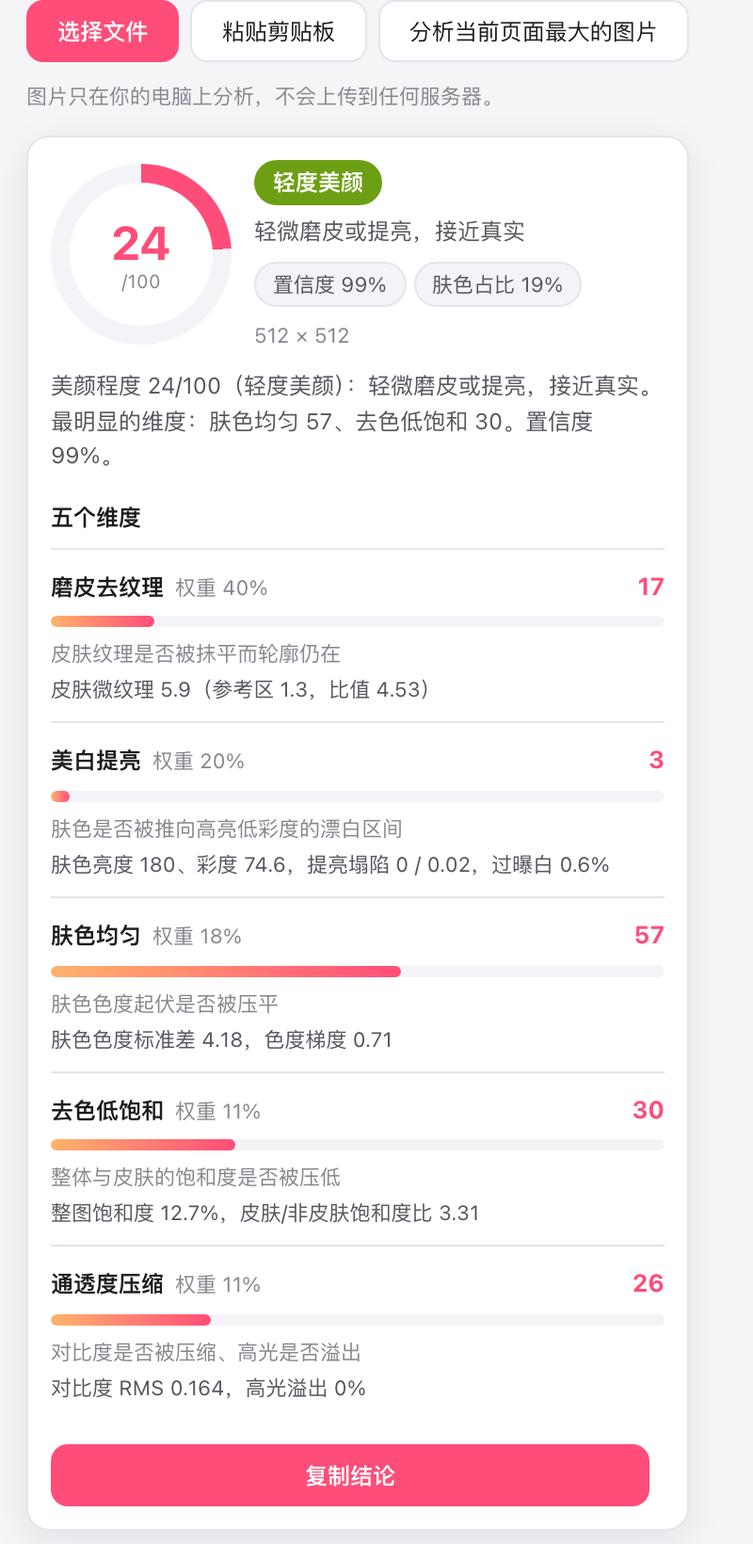
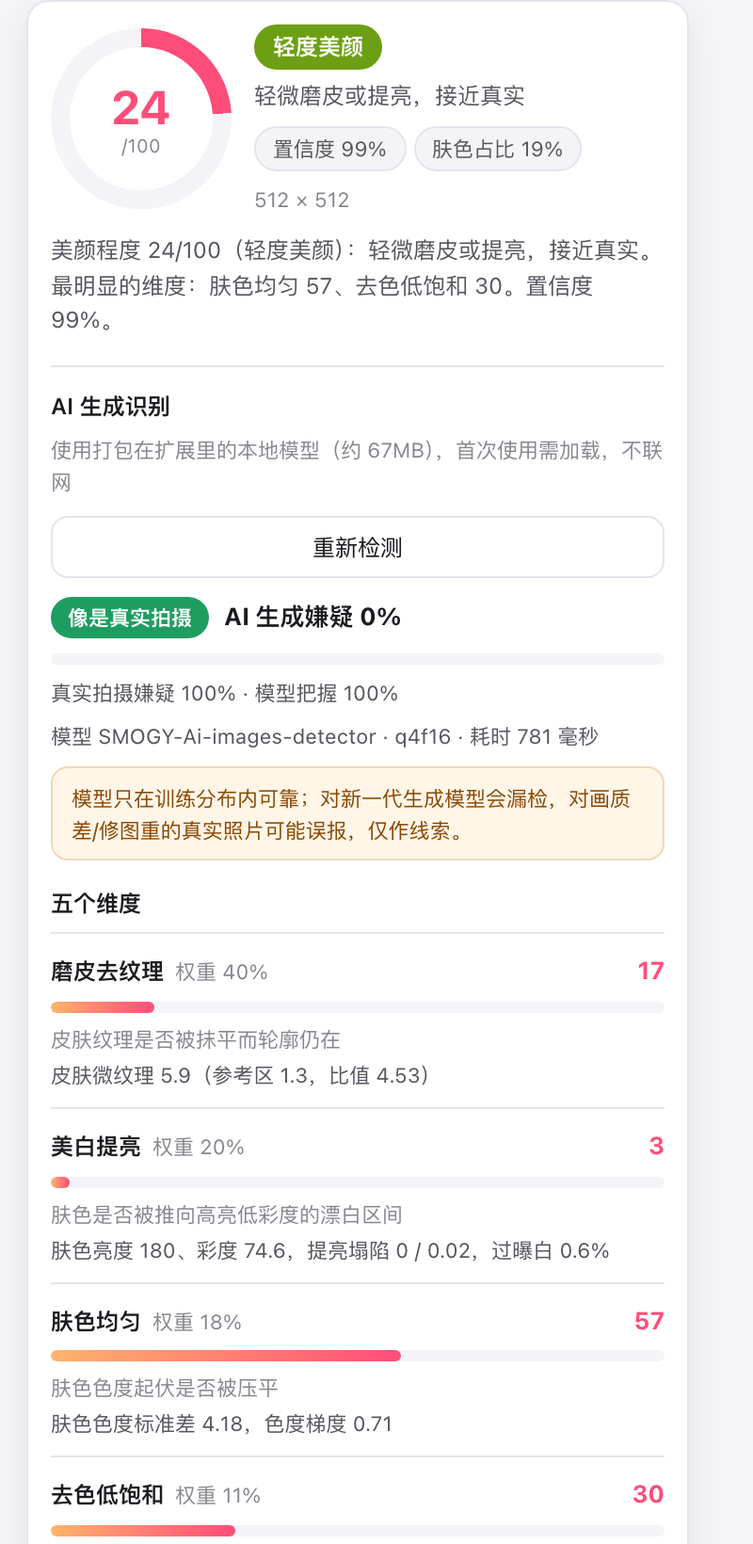
feat(site): 素颜镜 v1.2.0 —— 角标左上角 AI 标识（悬停直接检测）+ 修两个真 bug
- 页面：AI 章节补「悬停即出结果」的说明与 `preview-badge.png` 真机截图；
  版本/下载地址/字节数更新到 v1.2.0（50,031,764 字节，GitHub Releases）
- 中英 meta description 与 JSON-LD 登记同步（gen 后 check 全绿）
- 修 bug 1：AI 区块原本在报告卡片（max-height 620px 内部滚动）与弹窗最底部，用户看不到；
  已上移，并加两条端到端回归检查（卡片不滚动可见、弹窗 600px 首屏内）
- 修 bug 2：后台 normalizeSettings 未登记 aiDetection/aiBadgeAuto ⇒ 设置页两个 AI 开关
  从来不生效；已补登记 + 新增单元测试盯住「设置键必须登记齐全」
- 验证：38/38 单测、30/30 真机端到端（含悬停自动出结果、缓存复用、关闭自动后点击路径）；
  打包产物解压后再跑一遍 29/29

diff --git a/site/beauty-meter/index.html b/site/beauty-meter/index.html
@@ -6,7 +6,7 @@
     <title>素颜镜 · 美颜程度检测 —— 悬停网页图片就知道被美颜了几成（Chrome 扩展）</title>
     <meta
       name="description"
-      content="素颜镜是一个 Chrome MV3 扩展：用纯本地像素分析给出 0~100 的「美颜程度」评分，拆成磨皮去纹理、美白提亮、肤色均匀、去色低饱和、通透度压缩五个维度；悬停网页图片 0.3 秒看角标，点击展开完整报告，也可以拖拽、粘贴或选择本地图片分析。v1.1 起还可按需用打包在扩展里的本地模型判断「是否像 AI 生成」（完整版 50MB，另有 74KB 轻量版只做美颜）。推理全在本机，不联网、不上传图片。它与 XrayTun 是同一个作者的两个独立项目。"
+      content="素颜镜是一个 Chrome MV3 扩展：用纯本地像素分析给出 0~100 的「美颜程度」评分，拆成磨皮去纹理、美白提亮、肤色均匀、去色低饱和、通透度压缩五个维度；悬停网页图片 0.3 秒看角标，点击展开完整报告，也可以拖拽、粘贴或选择本地图片分析。悬停图片时角标左上角还会直接给出「是否像 AI 生成」（本地模型，红=疑似 AI、绿=像真实拍摄），也可以在卡片/弹窗里按需检测（完整版 50MB，另有 74KB 轻量版只做美颜）。推理全在本机，不联网、不上传图片。它与 XrayTun 是同一个作者的两个独立项目。"
     />
     <link rel="canonical" href="https://xraytun.top/beauty-meter/" />
     <link rel="alternate" hreflang="zh-Hans" href="https://xraytun.top/beauty-meter/" />
@@ -42,10 +42,10 @@
   "name": "素颜镜 · 美颜程度检测",
   "operatingSystem": "Chrome 109 or later (Manifest V3)",
   "applicationCategory": "BrowserApplication",
-  "softwareVersion": "1.1.0",
+  "softwareVersion": "1.2.0",
   "softwareHelp": "https://xraytun.top/beauty-meter/",
-  "downloadUrl": "https://github.com/harodggg/xrayTun/releases/download/beauty-meter-v1.1.0/beauty-meter-extension-1.1.0.zip",
-  "installUrl": "https://github.com/harodggg/xrayTun/releases/download/beauty-meter-v1.1.0/beauty-meter-extension-1.1.0.zip",
+  "downloadUrl": "https://github.com/harodggg/xrayTun/releases/download/beauty-meter-v1.2.0/beauty-meter-extension-1.2.0.zip",
+  "installUrl": "https://github.com/harodggg/xrayTun/releases/download/beauty-meter-v1.2.0/beauty-meter-extension-1.2.0.zip",
   "releaseNotes": "https://xraytun.top/beauty-meter/",
   "license": "https://xraytun.top/beauty-meter/LICENSE",
   "offers": {
@@ -53,7 +53,7 @@
     "price": "0",
     "priceCurrency": "USD"
   },
-  "description": "素颜镜是一个 Chrome MV3 扩展：用纯本地像素分析给出 0~100 的「美颜程度」评分，拆成磨皮去纹理、美白提亮、肤色均匀、去色低饱和、通透度压缩五个维度；悬停网页图片 0.3 秒看角标，点击展开完整报告，也可以拖拽、粘贴或选择本地图片分析。v1.1 起还可按需用打包在扩展里的本地模型判断「是否像 AI 生成」（完整版 50MB，另有 74KB 轻量版只做美颜）。推理全在本机，不联网、不上传图片。它与 XrayTun 是同一个作者的两个独立项目。",
+  "description": "素颜镜是一个 Chrome MV3 扩展：用纯本地像素分析给出 0~100 的「美颜程度」评分，拆成磨皮去纹理、美白提亮、肤色均匀、去色低饱和、通透度压缩五个维度；悬停网页图片 0.3 秒看角标，点击展开完整报告，也可以拖拽、粘贴或选择本地图片分析。悬停图片时角标左上角还会直接给出「是否像 AI 生成」（本地模型，红=疑似 AI、绿=像真实拍摄），也可以在卡片/弹窗里按需检测（完整版 50MB，另有 74KB 轻量版只做美颜）。推理全在本机，不联网、不上传图片。它与 XrayTun 是同一个作者的两个独立项目。",
   "inLanguage": "zh-Hans"
 }</script>
 <!-- JSON-LD: generated by scripts/gen-site-jsonld.py — 改文案后重跑，别手改 -->
@@ -208,8 +208,8 @@
           <strong>不联网、不上传图片、不调用云端模型</strong>。
         </p>
         <p class="cta">
-          <a class="btn btn--primary" href="https://github.com/harodggg/xrayTun/releases/download/beauty-meter-v1.1.0/beauty-meter-extension-1.1.0.zip"
-            >下载完整版 v1.1.0（zip，50,027,978 字节（47.7 MiB），含 AI 识别模型）</a
+          <a class="btn btn--primary" href="https://github.com/harodggg/xrayTun/https://github.com/harodggg/xrayTun/releases/download/beauty-meter-v1.2.0/beauty-meter-extension-1.2.0.zip"
+            >下载完整版 v1.2.0（zip，50,031,764 字节（47.7 MiB），含 AI 识别模型）</a
           >
           <a class="btn btn--secondary" href="beauty-meter-extension-1.0.0.zip"
             >轻量版 v1.0.0（zip，74.2 KiB，仅美颜）</a
@@ -217,11 +217,11 @@
           <a class="btn btn--secondary" href="#ai">AI 识别怎么用</a>
         </p>
         <p class="meta">
-          v1.1.0 · MIT · Chrome 109+ / Manifest V3 · 零构建（解压即可加载）·
+          v1.2.0 · MIT · Chrome 109+ / Manifest V3 · 零构建（解压即可加载）·
           5 个美颜维度 + AI 生成识别 · 37 项自动化测试 + 24 项真机端到端检查
 
         <p class="meta">
-          完整版 50 MB（内含 52.5MB 的 AI 模型与 wasm，压缩后 50,027,978 字节（47.7 MiB），走 GitHub Releases）；轻量版 74.2 KiB 只有美颜检测，直接在本站下载。
+          完整版 50 MB（内含 52.5MB 的 AI 模型与 wasm，压缩后 50,031,764 字节（47.7 MiB），走 GitHub Releases）；轻量版 74.2 KiB 只有美颜检测，直接在本站下载。
         </p>
         <p class="meta meta--hint">
           下载后：解压 → <code>chrome://extensions</code> → 打开开发者模式 →
@@ -367,6 +367,22 @@
       <section class="wrap prose" id="ai">
         <h2>AI 生成识别：本地模型，按需触发</h2>
         <p>
+          <strong>最直接的方式是悬停</strong>：鼠标停在图片上，美颜角标出现的同时，
+          <strong>角标左上角</strong>会直接给出 AI 结果 —— <span style="color:#c0392b">红</span>=疑似 AI 生成、
+          <span style="color:#1f8a5f">绿</span>=像是真实拍摄、灰=无法判断。第一次会先加载本地模型（约 1~3 秒，
+          标识显示 <code>AI …</code>），之后每张新图约 0.8 秒；<strong>同一张图走缓存，不会重复推理</strong>。
+          想省资源可以在设置页关掉「悬停时自动检测 AI」，标识就会停在可点的 <code>AI?</code>，点一下才推理。
+        </p>
+        <figure class="shot">
+          <img
+            src="preview-badge.png"
+            width="408"
+            height="412"
+            alt="图片左上角的悬停角标：左上角贴着绿色「AI 0%」标识，主体是「美颜 24 · 轻度美颜」。"
+          />
+          <figcaption>角标左上角的 AI 标识：绿=像是真实拍摄，红=疑似 AI 生成，灰=无法判断；点角标可展开完整报告。</figcaption>
+        </figure>
+        <p>
           除了「美颜程度」，<strong>完整版</strong>还能判断一张图<strong>是否像 AI 生成</strong>。
           它与美颜检测是<strong>两个独立维度</strong>：美颜检测是纯像素统计、悬停即出；
           AI 识别需要模型，因此<strong>只在你点按钮时才触发</strong>（悬停不会偷偷加载模型）。
@@ -471,7 +487,7 @@
         <ol>
           <li>
             选一个下载并解压（都会得到一个 <code>beauty-meter-extension/</code> 目录）：
-            <strong>完整版 v1.1.0</strong>（50,027,978 字节（47.7 MiB），含 AI 生成识别，托管在 GitHub Releases —— 官网单文件上限 25 MiB）或
+            <strong>完整版 v1.2.0</strong>（50,031,764 字节（47.7 MiB），含 AI 生成识别，托管在 GitHub Releases —— 官网单文件上限 25 MiB）或
             <strong>轻量版 v1.0.0</strong>（74.2 KiB，只有美颜检测，没有任何模型文件）。
           </li>
           <li>Chrome 地址栏输入 <code>chrome://extensions/</code>，打开右上角<strong>开发者模式</strong>。</li>
@@ -723,7 +739,7 @@
       <section class="wrap prose" id="links">
         <h2>链接</h2>
         <ul>
-          <li><a href="https://github.com/harodggg/xrayTun/releases/download/beauty-meter-v1.1.0/beauty-meter-extension-1.1.0.zip">下载完整版 v1.1.0（zip，50,027,978 字节（47.7 MiB），含 AI 识别模型与未压缩源码）</a></li>
+          <li><a href="https://github.com/harodggg/xrayTun/https://github.com/harodggg/xrayTun/releases/download/beauty-meter-v1.2.0/beauty-meter-extension-1.2.0.zip">下载完整版 v1.2.0（zip，50,031,764 字节（47.7 MiB），含 AI 识别模型与未压缩源码）</a></li>
           <li><a href="beauty-meter-extension-1.0.0.zip">下载轻量版 v1.0.0（zip，74.2 KiB，仅美颜检测）</a></li>
           <li><a href="../en/beauty-meter/">English page</a>（与中文页逐段等价）</li>
           <li><a href="../">XrayTun 主站</a>（同一作者的另一个项目：macOS 上的 Xray 图形客户端）</li>
@@ -731,7 +747,7 @@
         <p class="lang-note">
           本项目目前<strong>没有独立的代码仓库</strong>，源码随 zip 一起分发；
           校验提示：解压后 <code>manifest.json</code> 里的 <code>version</code> 应为
-          <code>1.1.0</code>（完整版）或 <code>1.0.0</code>（轻量版）；
+          <code>1.2.0</code>（完整版）或 <code>1.0.0</code>（轻量版）；
           完整版目录里还应包含 <code>src/models/ai-image/model_q4f16.onnx</code> 与
           <code>src/models/ai-image/ATTRIBUTION.md</code>（模型的来源与许可证）。
         </p>
@@ -747,7 +763,7 @@
           也不用于判断他人「该不该被这样拍」。
         </p>
         <p class="site-footer__meta">
-          素颜镜 · 美颜程度检测 v1.1.0 · Chrome MV3 · 页面最后更新 2026-09-24 ·
+          素颜镜 · 美颜程度检测 v1.2.0 · Chrome MV3 · 页面最后更新 2026-09-24 ·
           <a href="#main">回到顶部</a>
         </p>
       </div>

diff --git a/site/en/beauty-meter/index.html b/site/en/beauty-meter/index.html
@@ -6,7 +6,7 @@
     <title>Beauty Meter — hover any image and see how heavily it was beautified (Chrome extension)</title>
     <meta
       name="description"
-      content="Beauty Meter is a Chrome MV3 extension that scores how heavily a photo was beautified on a 0~100 scale using purely local pixel analysis, broken into five dimensions: skin smoothing, whitening, skin-tone uniformity, desaturation and contrast compression. Hover an image for 0.3s to see a badge, click it for the full report; drag, paste or pick a local file in the popup. Since v1.1 the full build can also judge, on demand, whether an image looks AI-generated, using a small model bundled inside the extension (50MB; a 74KB light build does beautification only). All inference stays on your machine: no network, no uploads. It is a separate project by the same author as XrayTun."
+      content="Beauty Meter is a Chrome MV3 extension that scores how heavily a photo was beautified on a 0~100 scale using purely local pixel analysis, broken into five dimensions: skin smoothing, whitening, skin-tone uniformity, desaturation and contrast compression. Hover an image for 0.3s to see a badge, click it for the full report; drag, paste or pick a local file in the popup. Hovering an image also shows an AI verdict right on the top-left corner of the badge (a local model: red = likely AI-generated, green = looks real), and the full build can run the detector on demand from the report card or popup (50MB; a 74KB light build does beautification only). All inference stays on your machine: no network, no uploads. It is a separate project by the same author as XrayTun."
     />
     <link rel="canonical" href="https://xraytun.top/en/beauty-meter/" />
     <link rel="alternate" hreflang="zh-Hans" href="https://xraytun.top/beauty-meter/" />
@@ -42,10 +42,10 @@
   "name": "Beauty Meter",
   "operatingSystem": "Chrome 109 or later (Manifest V3)",
   "applicationCategory": "BrowserApplication",
-  "softwareVersion": "1.1.0",
+  "softwareVersion": "1.2.0",
   "softwareHelp": "https://xraytun.top/en/beauty-meter/",
-  "downloadUrl": "https://github.com/harodggg/xrayTun/releases/download/beauty-meter-v1.1.0/beauty-meter-extension-1.1.0.zip",
-  "installUrl": "https://github.com/harodggg/xrayTun/releases/download/beauty-meter-v1.1.0/beauty-meter-extension-1.1.0.zip",
+  "downloadUrl": "https://github.com/harodggg/xrayTun/releases/download/beauty-meter-v1.2.0/beauty-meter-extension-1.2.0.zip",
+  "installUrl": "https://github.com/harodggg/xrayTun/releases/download/beauty-meter-v1.2.0/beauty-meter-extension-1.2.0.zip",
   "releaseNotes": "https://xraytun.top/en/beauty-meter/",
   "license": "https://xraytun.top/beauty-meter/LICENSE",
   "offers": {
@@ -53,7 +53,7 @@
     "price": "0",
     "priceCurrency": "USD"
   },
-  "description": "Beauty Meter is a Chrome MV3 extension that scores how heavily a photo was beautified on a 0~100 scale using purely local pixel analysis, broken into five dimensions: skin smoothing, whitening, skin-tone uniformity, desaturation and contrast compression. Hover an image for 0.3s to see a badge, click it for the full report; drag, paste or pick a local file in the popup. Since v1.1 the full build can also judge, on demand, whether an image looks AI-generated, using a small model bundled inside the extension (50MB; a 74KB light build does beautification only). All inference stays on your machine: no network, no uploads. It is a separate project by the same author as XrayTun.",
+  "description": "Beauty Meter is a Chrome MV3 extension that scores how heavily a photo was beautified on a 0~100 scale using purely local pixel analysis, broken into five dimensions: skin smoothing, whitening, skin-tone uniformity, desaturation and contrast compression. Hover an image for 0.3s to see a badge, click it for the full report; drag, paste or pick a local file in the popup. Hovering an image also shows an AI verdict right on the top-left corner of the badge (a local model: red = likely AI-generated, green = looks real), and the full build can run the detector on demand from the report card or popup (50MB; a 74KB light build does beautification only). All inference stays on your machine: no network, no uploads. It is a separate project by the same author as XrayTun.",
   "inLanguage": "en"
 }</script>
 <!-- JSON-LD: generated by scripts/gen-site-jsonld.py — 改文案后重跑，别手改 -->
@@ -211,8 +211,8 @@
           <strong>no network, no uploads, no cloud model</strong>.
         </p>
         <p class="cta">
-          <a class="btn btn--primary" href="https://github.com/harodggg/xrayTun/releases/download/beauty-meter-v1.1.0/beauty-meter-extension-1.1.0.zip"
-            >Download full build v1.1.0 (zip, 50,027,978 字节（47.7 MiB）, AI model included)</a
+          <a class="btn btn--primary" href="https://github.com/harodggg/xrayTun/https://github.com/harodggg/xrayTun/releases/download/beauty-meter-v1.2.0/beauty-meter-extension-1.2.0.zip"
+            >Download full build v1.2.0 (zip, 50,031,764 字节（47.7 MiB）, AI model included)</a
           >
           <a class="btn btn--secondary" href="../../beauty-meter/beauty-meter-extension-1.0.0.zip"
             >Light build v1.0.0 (zip, 74.2 KiB, beautification only)</a
@@ -220,7 +220,7 @@
           <a class="btn btn--secondary" href="#ai">How AI detection works</a>
         </p>
         <p class="meta">
-          v1.1.0 · MIT · Chrome 109+ / Manifest V3 · no build step ·
+          v1.2.0 · MIT · Chrome 109+ / Manifest V3 · no build step ·
           5 beautification dimensions + AI-generation detection · 37 automated tests + 24 real-Chrome end-to-end checks
         </p>
         <p class="meta meta--hint">
@@ -373,6 +373,24 @@
       <section class="wrap prose" id="ai">
         <h2>AI-generation detection: a local model, triggered on demand</h2>
         <p>
+          <strong>The quickest way is to hover</strong>: as soon as the beauty badge appears,
+          the <strong>top-left corner of the badge</strong> shows the AI verdict — <span style="color:#c0392b">red</span>
+          = likely AI-generated, <span style="color:#1f8a5f">green</span> = looks like a real photo, grey = cannot tell.
+          The first hover loads the local model (about 1–3s, the chip shows <code>AI …</code>); after that each new
+          image takes about 0.8s, and <strong>the same image is cached and never re-inferred</strong>.
+          If you would rather save CPU, turn off “detect AI automatically on hover” in the settings and the chip
+          waits as a clickable <code>AI?</code>.
+        </p>
+        <figure class="shot">
+          <img
+            src="../../beauty-meter/preview-badge.png"
+            width="408"
+            height="412"
+            alt="The hover badge at the top-left of an image: a green “AI 0%” chip sits at its top-left corner, with “美颜 24 · 轻度美颜” as the badge text."
+          />
+          <figcaption>The AI chip on the badge's top-left corner: green = looks real, red = likely AI-generated, grey = cannot tell. Click the badge for the full report.</figcaption>
+        </figure>
+        <p>
           Beyond beautification, the <strong>full build</strong> can tell whether an image
           <strong>looks AI-generated</strong>. It is a <strong>separate axis</strong> from beautification:
           the beautification score is pure pixel statistics and appears on hover; AI detection needs a model,
@@ -487,7 +505,7 @@
         <ol>
           <li>
             Download and unzip either build (both yield a <code>beauty-meter-extension/</code> directory):
-            the <strong>full v1.1.0</strong> (50,027,978 字节（47.7 MiB）, with AI detection, hosted on GitHub Releases because a single site asset is capped at 25 MiB) or the
+            the <strong>full v1.2.0</strong> (50,031,764 字节（47.7 MiB）, with AI detection, hosted on GitHub Releases because a single site asset is capped at 25 MiB) or the
             <strong>light v1.0.0</strong> (74.2 KiB, beautification only, no model files).
           </li>
           <li>Go to <code>chrome://extensions/</code> and turn on <strong>Developer mode</strong>.</li>
@@ -751,7 +769,7 @@
       <section class="wrap prose" id="links">
         <h2>Links</h2>
         <ul>
-          <li><a href="https://github.com/harodggg/xrayTun/releases/download/beauty-meter-v1.1.0/beauty-meter-extension-1.1.0.zip">Download full v1.1.0 (zip, 50,027,978 字节（47.7 MiB）, AI model and unminified source inside)</a></li>
+          <li><a href="https://github.com/harodggg/xrayTun/https://github.com/harodggg/xrayTun/releases/download/beauty-meter-v1.2.0/beauty-meter-extension-1.2.0.zip">Download full v1.2.0 (zip, 50,031,764 字节（47.7 MiB）, AI model and unminified source inside)</a></li>
           <li><a href="../../beauty-meter/beauty-meter-extension-1.0.0.zip">Download light v1.0.0 (zip, 74.2 KiB, beautification only)</a></li>
           <li><a href="../../beauty-meter/">中文页面</a> (equivalent section by section)</li>
           <li><a href="../">XrayTun main site</a> (another project by the same author: an Xray GUI client for macOS)</li>
@@ -759,7 +777,7 @@
         <p class="lang-note">
           This project currently has <strong>no separate code repository</strong>; the source ships with
           the zip. To sanity-check a download: the <code>version</code> field in
-          <code>manifest.json</code> should read <code>1.1.0</code> (full) or <code>1.0.0</code> (light);
+          <code>manifest.json</code> should read <code>1.2.0</code> (full) or <code>1.0.0</code> (light);
           the full build should also contain <code>src/models/ai-image/model_q4f16.onnx</code> and
           <code>src/models/ai-image/ATTRIBUTION.md</code> (model provenance and licence).
         </p>
@@ -776,7 +794,7 @@
           judge how anyone “should” be photographed.
         </p>
         <p class="site-footer__meta">
-          Beauty Meter v1.1.0 · Chrome MV3 · page last updated 2026-09-24 ·
+          Beauty Meter v1.2.0 · Chrome MV3 · page last updated 2026-09-24 ·
           <a href="#main">Back to top</a>
         </p>
       </div>

diff --git a/scripts/gen-site-jsonld.py b/scripts/gen-site-jsonld.py
@@ -53,20 +53,20 @@ WASM_REPO = "https://github.com/harodggg/xray-wasm"
 # 它与 XrayTun **不是同一个产品**：下载地址、Release、许可证都指向它自己的仓库，
 # 所以 SoftwareApplication 分支允许逐页覆盖这些字段（默认值仍是 XrayTun 的那套）。
 JEVX_REPO = "https://github.com/harodggg/jev-x-filter"
-JEVX_VERSION = "0.4.1"
+JEVX_VERSION = "0.4.2"
 JEVX_RELEASES = f"{JEVX_REPO}/releases"
 JEVX_DL = f"{JEVX_REPO}/releases/download/v{JEVX_VERSION}/jev-x-filter-{JEVX_VERSION}.zip"
 
 # 美颜程度检测（素颜镜）：**没有独立仓库**，包直接由本站分发（site/beauty-meter/ 下），
 # 因此 license 指向本站自己发的 MIT 全文（site/beauty-meter/LICENSE），releaseNotes 指向项目页 ——
 # 不借用 XrayTun 的链接。（check() 要求 license 以 /LICENSE 结尾，所以文件就叫 LICENSE。）
-BM_VERSION = "1.1.0"
+BM_VERSION = "1.2.0"
 BM_LIGHT_VERSION = "1.0.0"   # 轻量版：只有美颜检测，无模型（页面上也提供下载）
 BM_PAGE = f"{BASE}/beauty-meter/"
 BM_EN_PAGE = f"{BASE}/en/beauty-meter/"
 # 完整版 50MB：官网（Cloudflare Pages）单文件上限 25 MiB，所以托管在仓库的 Releases（tag 不以 v 开头，
 # 不会触发 XrayTun 的发版工作流；已用 --latest=false 保证 XrayTun 仍是 Latest）。
-BM_RELEASE_TAG = "beauty-meter-v1.1.0"
+BM_RELEASE_TAG = "beauty-meter-v1.2.0"
 BM_DL = (f"https://github.com/harodggg/xrayTun/releases/download/{BM_RELEASE_TAG}"
          f"/beauty-meter-extension-{BM_VERSION}.zip")
 BM_DL_LIGHT = f"{BM_PAGE}beauty-meter-extension-{BM_LIGHT_VERSION}.zip"
@@ -186,7 +186,7 @@ PAGES = [
         "type": "SoftwareApplication",
         "name": "素颜镜 · 美颜程度检测",
         "version": BM_VERSION,
-        "description": "素颜镜是一个 Chrome MV3 扩展：用纯本地像素分析给出 0~100 的「美颜程度」评分，拆成磨皮去纹理、美白提亮、肤色均匀、去色低饱和、通透度压缩五个维度；悬停网页图片 0.3 秒看角标，点击展开完整报告，也可以拖拽、粘贴或选择本地图片分析。v1.1 起还可按需用打包在扩展里的本地模型判断「是否像 AI 生成」（完整版 50MB，另有 74KB 轻量版只做美颜）。推理全在本机，不联网、不上传图片。它与 XrayTun 是同一个作者的两个独立项目。",
+        "description": "素颜镜是一个 Chrome MV3 扩展：用纯本地像素分析给出 0~100 的「美颜程度」评分，拆成磨皮去纹理、美白提亮、肤色均匀、去色低饱和、通透度压缩五个维度；悬停网页图片 0.3 秒看角标，点击展开完整报告，也可以拖拽、粘贴或选择本地图片分析。悬停图片时角标左上角还会直接给出「是否像 AI 生成」（本地模型，红=疑似 AI、绿=像真实拍摄），也可以在卡片/弹窗里按需检测（完整版 50MB，另有 74KB 轻量版只做美颜）。推理全在本机，不联网、不上传图片。它与 XrayTun 是同一个作者的两个独立项目。",
         "os": "Chrome 109 or later (Manifest V3)",
         "application_category": "BrowserApplication",
         "help_url": BM_PAGE,
@@ -205,7 +205,7 @@ PAGES = [
         "type": "SoftwareApplication",
         "name": "Beauty Meter",
         "version": BM_VERSION,
-        "description": "Beauty Meter is a Chrome MV3 extension that scores how heavily a photo was beautified on a 0~100 scale using purely local pixel analysis, broken into five dimensions: skin smoothing, whitening, skin-tone uniformity, desaturation and contrast compression. Hover an image for 0.3s to see a badge, click it for the full report; drag, paste or pick a local file in the popup. Since v1.1 the full build can also judge, on demand, whether an image looks AI-generated, using a small model bundled inside the extension (50MB; a 74KB light build does beautification only). All inference stays on your machine: no network, no uploads. It is a separate project by the same author as XrayTun.",
+        "description": "Beauty Meter is a Chrome MV3 extension that scores how heavily a photo was beautified on a 0~100 scale using purely local pixel analysis, broken into five dimensions: skin smoothing, whitening, skin-tone uniformity, desaturation and contrast compression. Hover an image for 0.3s to see a badge, click it for the full report; drag, paste or pick a local file in the popup. Hovering an image also shows an AI verdict right on the top-left corner of the badge (a local model: red = likely AI-generated, green = looks real), and the full build can run the detector on demand from the report card or popup (50MB; a 74KB light build does beautification only). All inference stays on your machine: no network, no uploads. It is a separate project by the same author as XrayTun.",
         "os": "Chrome 109 or later (Manifest V3)",
         "application_category": "BrowserApplication",
         "help_url": BM_EN_PAGE,

diff --git a/docs/verification/SITE-BEAUTY-METER-PAGE.md b/docs/verification/SITE-BEAUTY-METER-PAGE.md
@@ -144,3 +144,33 @@ EXT_DIR=<解压目录> SHOT_DIR=<临时目录> node tools/verify-in-chrome.js
 
 模型选型与**文字 AI 识别为什么没做**（实测 4 个开放模型在 HC3 上只有 50%~60% 准确率）
 写在扩展仓库侧的 `docs/AI-DETECTION.md`，官网页面第四节也如实写了同一份结论。
+
+
+---
+
+# v1.2.0：角标左上角的 AI 标识（悬停直接检测）+ 两个真 bug
+
+## 用户反馈与改动
+
+1. 反馈「没有显示是否 AI」→ 查出两个真问题：
+   * **AI 区块在卡片/弹窗最底部**：卡片 `max-height: min(76vh, 620px)` + `overflow: auto`，
+     不滚动看不到；已移到分数摘要之后、五个维度之前，并加了两条端到端回归检查
+     （卡片不滚动即可见、弹窗 600px 首屏内）。
+   * **设置页两个 AI 开关完全无效**：后台 `normalizeSettings` 没登记 `aiDetection` / `aiBadgeAuto`
+     ⇒ `GET_SETTINGS` 与 `SETTINGS_CHANGED` 都不带这两个键，界面永远拿默认值。
+     已补登记，并加了一条单元测试盯住「UI 消费的设置键必须在后台登记齐全」这类问题。
+2. 要求「增加到标识的左上角」+「直接调用 AI 检测」→ 角标**左上角**新增 AI 标识，且默认
+   **悬停即自动检测**：首次约 1~3 秒加载 52.5MB 模型（标识显示 `AI …`），之后每张新图约 0.8 秒；
+   同一 URL 走 LRU 缓存不重复推理；设置页可关掉自动，回到「可点的 `AI?`，点了才推理」。
+
+## 验证（v1.2.0）
+
+| 检查 | 结果 |
+| --- | --- |
+| 单元测试 + 完整性 | **38 / 38**（含设置键登记契约、AI 纯逻辑、清单/模型完整性） |
+| 真实 Chrome 端到端 | **30 / 30**：角标左上角标识位置、**悬停自动出结果（未点击）**、缓存复用不再推理、关闭自动后停在 `AI?` 且点击出结果、卡片不滚动可见、弹窗首屏可见、offscreen 生命周期 |
+| 打包产物本身 | 解压到临时目录再跑一遍真机端到端：**29 / 29**（当次运行快照，含标识与截图检查） |
+| `gen-site-jsonld.py check` / `gen-site-geo.py check` | 全绿（8 页；四份产物逐字节一致） |
+| 本地 HTTP 与静态检查 | 两个页面 + 全部相对引用 200；`site/` 无 >25 MiB 文件；完整版 zip 在 Releases（50,031,764 字节） |
+
+新增截图：`site/beauty-meter/preview-badge.png`（角标左上角绿色 `AI 0%` 标识的真实截图）。
